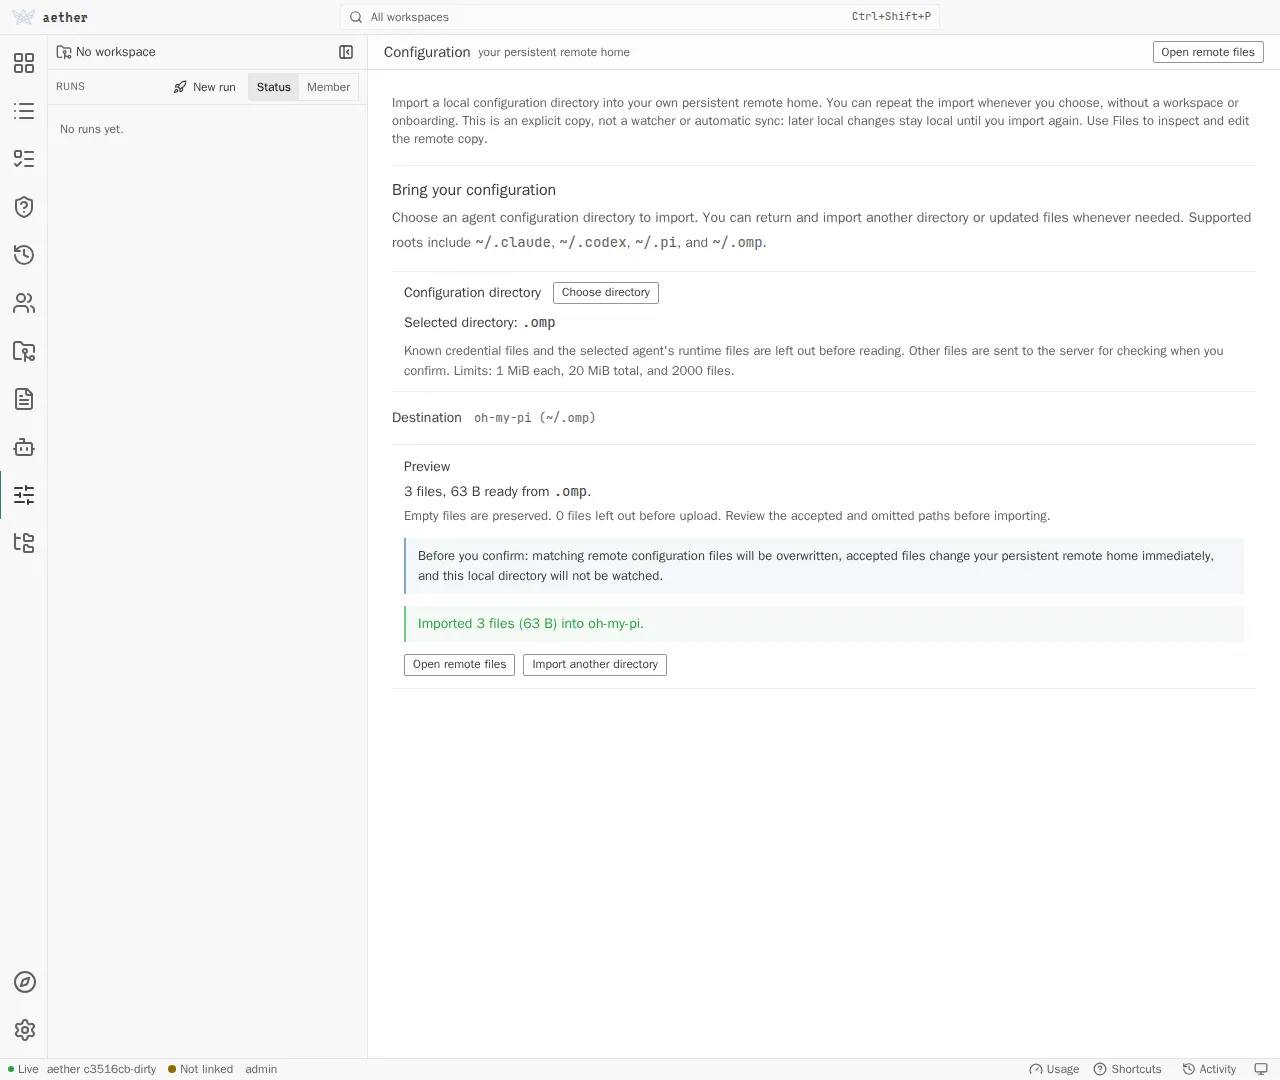
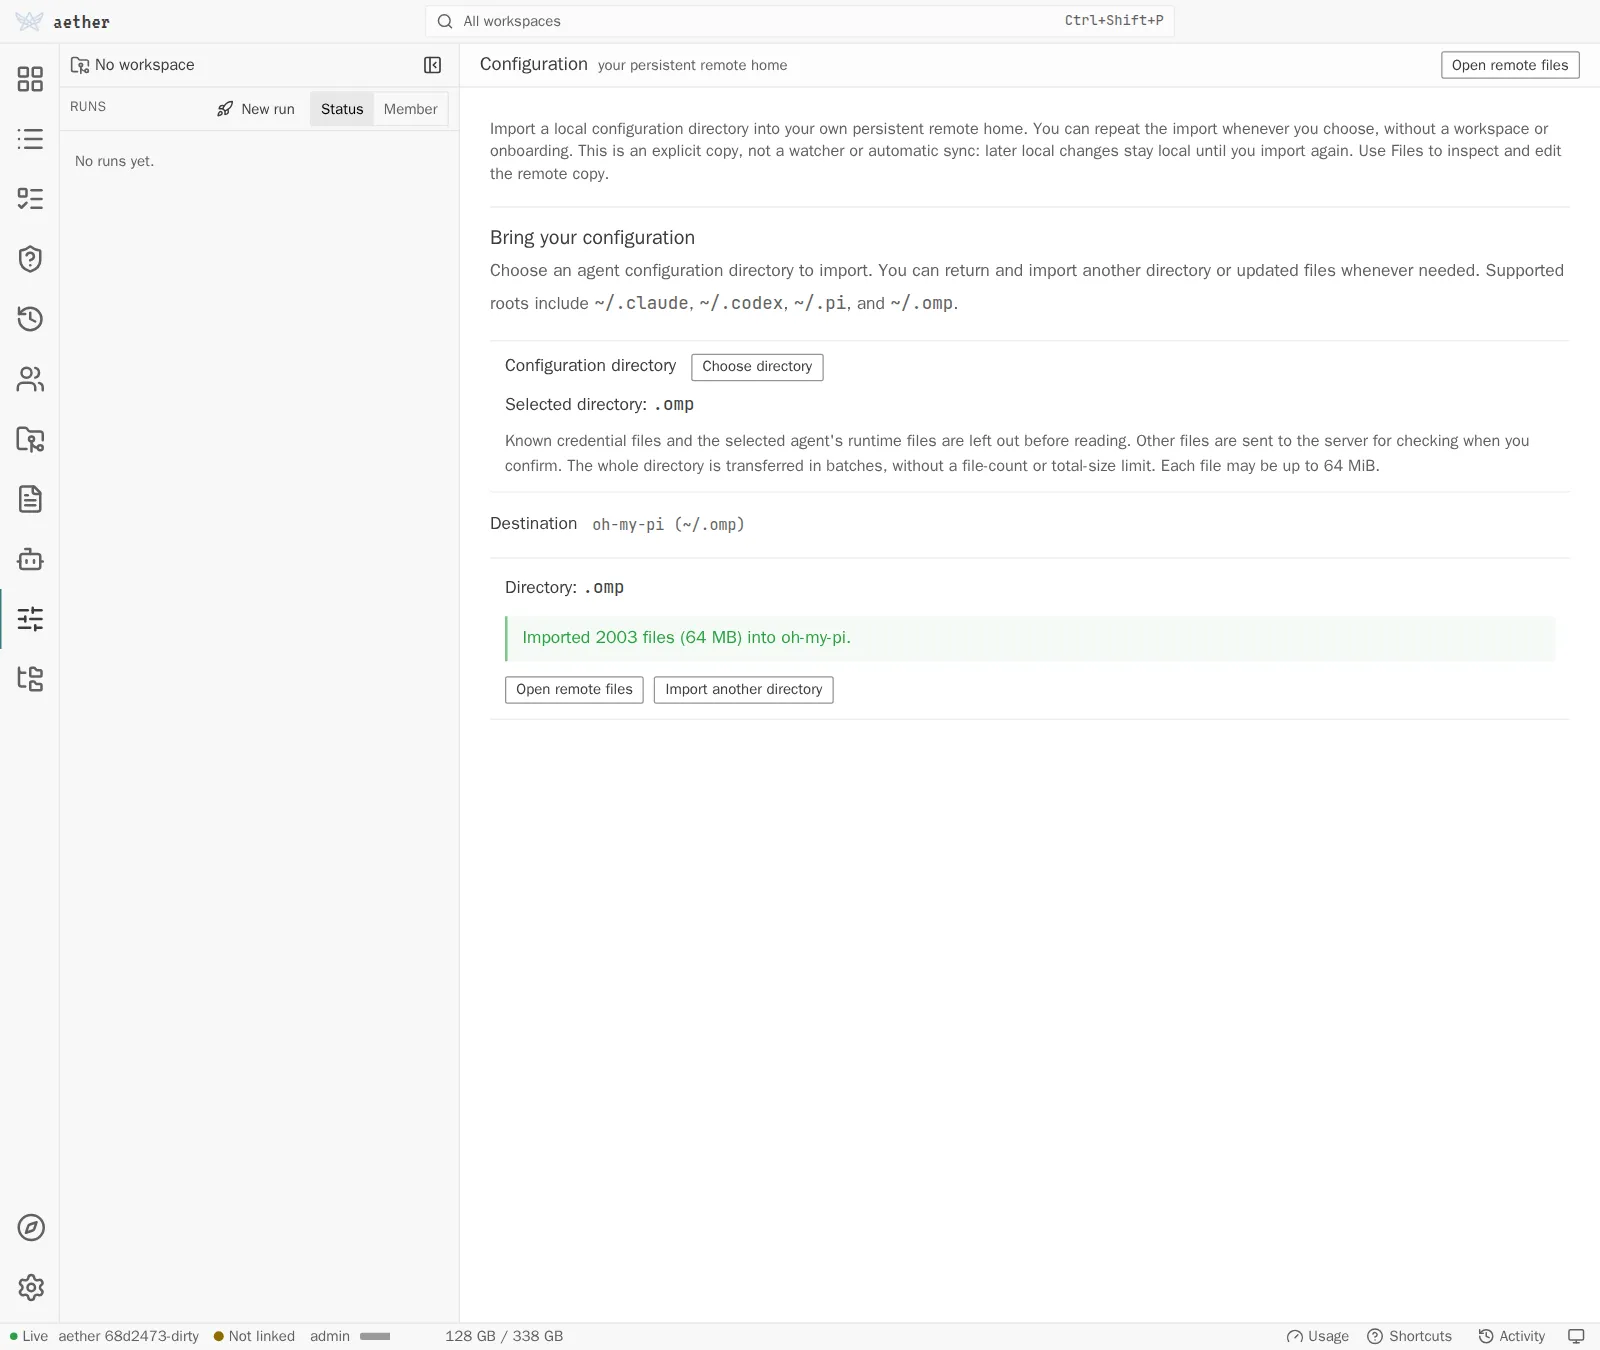
docs: explain complete configuration directory transfers
Replace directory-limit and partial-consent guidance with bounded full
transfers, progress, and truthful interruption reporting. Document the
per-file and per-request safety boundaries and identity behavior.

Capture real maximum-file success and lost-response recovery surfaces.

diff --git a/docs/local-gateway.md b/docs/local-gateway.md
@@ -135,8 +135,11 @@ the tailnet.
 
 For the local backend, when a call fails on transport (a server restart or a
 dropped network), it redials once and retries once before surfacing `-32004`
-(unavailable); a failure the server itself answered passes through untouched as
-that `protocol.Error`. Streams get the same treatment with a guard: a channel
+(unavailable). `config.import` is not replayed: a lost response may follow
+committed writes, so the failed attempt surfaces immediately. A subsequent
+request can reconnect without replaying the import. A failure the server itself
+answered passes through untouched as that `protocol.Error`. Streams get the
+same treatment with a guard: a channel
 that fails to open triggers a redial only when a keepalive shows the
 connection is actually gone, because tearing down a healthy connection would
 kill every live stream riding on it.
@@ -450,13 +453,16 @@ handles so it can recompute an import when the destination changes, and
 cannot change destinations during import. After a result, the user can start
 another directory selection or choose **Open remote files** to navigate to the
 existing **Files** editor.
-The preview lists accepted paths and makes all omitted paths available for
-review. Imports allow at most 2,000 files, 1 MiB per file, and 20 MiB decoded in
-aggregate. Omissions for count, aggregate size, or per-file size visibly mark
-the selection incomplete and disable upload until the user explicitly
-acknowledges importing the accepted subset, or chooses a smaller selection.
-The acknowledgement resets for a new directory, destination, or recomputed
-selection. Credential/runtime exclusions alone do not require it.
+The preview lists eligible paths and policy exclusions without reading file
+bytes. Directories have no file-count or decoded-total ceiling. The browser
+reads and encodes only the current batch: at most 2,000 files and a target of
+20 MiB decoded. A larger individual file is sent alone. Each `config.import`
+request permits at most 2,000 files and 64 MiB decoded, with a 64 MiB per-file
+ceiling matching configuration editing. These bounds limit a request, not the
+directory. Oversized files and invalid paths block preparation rather than
+offering to import a truncated subset.
+Preparation checks canonical destination keys across the whole selection, so
+root-prefixed aliases cannot overwrite each other in separate batches.
 Accepted bytes are uploaded and server-scanned, so a secret finding does not
 mean those bytes stayed local. Empty and binary regular files are preserved;
 new browser-imported files use `0644`, while overwrites preserve existing
@@ -491,11 +497,19 @@ dashboard says that some files may remain and directs the user to inspect
 **Files** before retrying. Cancellation can prevent the response from being
 delivered; the protocol does not claim a stronger delivery guarantee.
 
+Across batches the dashboard accumulates confirmed counts, paths, and server
+exclusions. A read failure or server-reported partial failure stops subsequent
+batches. A lost response leaves only that request's outcome unknown; earlier
+confirmed writes remain reported. Navigation retains owner-scoped progress and
+results. Before each request, including after file reads, the importer checks
+the authenticated identity and stops if it changed. An in-flight request may
+still complete for its original owner; the new identity cannot see its result.
+
 The generic HTTP proxy caps ordinary `/api/v1` JSON bodies at 1 MiB,
 `files.write` and `config.write` at 385 MiB to allow worst-case JSON escaping,
-and `config.import` at 30 MiB. The 64 MiB editor file limit remains
-authoritative after JSON decoding. The SSH control-channel line cap is 32 MiB;
-the decoded import limits above remain authoritative.
+and `config.import` at 96 MiB. The 64 MiB file and per-request import limits
+remain authoritative after JSON decoding. The SSH control-channel line cap is
+96 MiB, allowing base64 import requests without unbounded framing.
 
 ### `GET /api/v1/run/<run_id>/patch`
 

diff --git a/docs/dashboard-frontend.md b/docs/dashboard-frontend.md
@@ -350,19 +350,22 @@ The local onboarding Agents step is an optional consumer of the same component.
 
 The browser directory picker grants access to the directory the user selects
 even when the dashboard is server-hosted; it does not grant access to arbitrary
-local paths. The importer previews accepted paths and exposes all omitted
-paths. Exceeding the 1 MiB per-file, 20 MiB decoded aggregate, or 2,000-file
-limits produces an incomplete-selection warning and disables upload until the
-user acknowledges importing only the accepted subset. The user can instead
-choose a smaller selection. A new directory, destination, or recomputed
-selection resets consent; expected credential/runtime exclusions alone do not
-require it. Accepted bytes are uploaded and server-scanned.
+local paths. The importer previews metadata and policy exclusions without
+reading file bytes. It transfers the entire eligible directory through
+sequential bounded requests, not a truncated selection. It retains at most the
+current batch's encoded payload and shows cumulative progress. Files above the
+64 MiB configuration-file ceiling and read failures are explicit errors.
+Server exclusions and exact committed paths accumulate across batches; a
+failure stops subsequent requests, distinguishing known commits from a request
+whose response was lost.
 
 After a result the user can select another directory or use **Open remote
 files**, which navigates to the existing `files` route. There is no automatic
-configuration sync, watcher, or import retry. `configImportPending` is
-nonpersisted state shared by the importer and shell navigation guard, not an
-onboarding completion flag. New browser-imported files use `0644`; existing
+configuration sync, watcher, or import retry. Nonpersisted owner-scoped progress
+and results survive navigation; `configImportPending` serializes operations and
+protects against page unload. Each request rechecks identity after asynchronous
+reads, so a member/server switch prevents further writes and hides the old
+result. New browser-imported files use `0644`; existing
 remote modes are preserved on overwrite. The browser cannot preserve source
 executable bits or symlinks. See
 [Agent configuration](harnesses.md#agent-configuration-import-and-files) for
@@ -2136,14 +2139,13 @@ independently of onboarding or workspaces. `config.roots` supplies destinations
 such as `~/.claude` and their runtime exclusions. A unique basename selects
 the destination automatically; an unknown or ambiguous basename requires a
 choice before file bytes are read. Retained browser `File` handles allow the
-preview to be recomputed after a destination change, with generation guards
-discarding stale reads.
+metadata preview to be recomputed after a destination change.
 
 Credential names in any path component and `*.pem` files are excluded before
 read; destination-specific `runtime_ignores` match exact root-relative paths or
-component prefixes case-sensitively. The shared preview, limits,
-incomplete-selection acknowledgement, repeat-import controls, and server
-scanning rules are identical to the permanent route. A response with `error`
+component prefixes case-sensitively. Metadata previews, bounded complete
+transfers, progress, repeat-import controls, and server scanning are identical
+to the permanent route. A response with `error`
 shows committed counts, exact canonical `imported_paths`, and the real error,
 and warns that copied files remain. A lost RPC response leaves the outcome
 unknown; inspect **Files** before explicitly importing again. Auth/vendor login

diff --git a/docs/security.md b/docs/security.md
@@ -453,26 +453,30 @@ explicit choice. Credential names in any path component and `*.pem` files are
 always skipped before upload. Runtime/history paths come from the selected
 root's `runtime_ignores` metadata and match exact, root-relative paths or
 component prefixes case-sensitively after trailing slashes are trimmed.
-Changing the destination clears the old preview and re-reads retained browser
-`File` handles; generation guards discard stale reads. The preview lists the
-accepted paths and exposes every omitted path for review. Files omitted for
-the 1 MiB per-file, 20 MiB decoded aggregate, or 2,000-file limits mark the
-selection incomplete. Upload is disabled until the user acknowledges importing
-only the accepted subset; choosing a smaller selection is the alternative.
-A new directory, destination, or recomputed selection clears this
-acknowledgement. Expected credential/runtime exclusions alone do not require
-it. There is no watcher, automatic configuration synchronization, or automatic
-import retry.
+Changing the destination recomputes the preview from retained browser `File`
+handles without reading their bytes. The preview lists eligible paths and
+policy exclusions. No directory-wide count or byte ceiling discards files.
+The browser reads and encodes one bounded batch at a time, targeting 20 MiB
+decoded and at most 2,000 files; a larger individual file travels alone.
+Requests permit 64 MiB decoded and individual files have the existing 64 MiB
+configuration-file ceiling. Invalid or oversized files fail explicitly rather
+than enabling an incomplete-selection override.
+Owner-scoped progress and results survive dashboard navigation. Identity changes
+discard preparation and prevent subsequent batches, including after an awaited
+file read. An already submitted request may finish for its original owner;
+its result is never shown to the new identity. There is no watcher, automatic
+configuration synchronization, or automatic import retry.
 
 The browser reads accepted regular-file bytes and sends them to the server,
 where they are scanned before writing; a secret finding is therefore not proof
 that the content stayed local. Empty files and arbitrary binary regular bytes
-are preserved within those limits.
-The shared HTTP gateway permits a 30 MiB request for `config.import`,
-128 MiB for `config.write` and `files.write`, and 1 MiB for ordinary methods.
-The 64 MiB editor file limit remains authoritative after JSON decoding. These
-are framing limits, not larger decoded import allowances. The SSH control
-channel still caps one JSON line at 32 MiB.
+are preserved. A failed or interrupted batch stops the import and reports
+earlier confirmed writes; a lost response leaves that request's outcome unknown.
+The shared HTTP gateway permits a 96 MiB request for `config.import`,
+385 MiB for `config.write` and `files.write`, and 1 MiB for ordinary methods.
+Decoded file and import-request limits remain authoritative. The authenticated
+SSH control channel caps a JSON line at 96 MiB; the larger framing budget does
+not remove decoded import bounds or filesystem validation.
 
 Browser metadata is intentionally limited. New imported files are `0644`;
 existing modes are preserved even when the server uses a restrictive umask.

diff --git a/docs/harnesses.md b/docs/harnesses.md
@@ -564,9 +564,8 @@ before upload. Runtime/history exclusions come from the selected root's
 `runtime_ignores` metadata, which matches exact root-relative paths or
 component prefixes case-sensitively after trailing slashes are trimmed. This
 policy applies to renamed directories too. Changing an ambiguous destination
-clears the prior preview and re-reads the local file handles with the newly
-selected policy; a stale read cannot replace the current preview. These local
-exclusions are not overridden by `.aether-profile-ignore` in browser import.
+recomputes the preview from retained file handles without reading file bytes.
+These local exclusions are not overridden by `.aether-profile-ignore` in browser import.
 `agent/skills/`, `agent/extensions/`, and `agent/npm/` remain configuration and
 are imported.
 The accepted bytes are uploaded and scanned by the server; do not assume all
@@ -577,21 +576,20 @@ and the real error, and warns that copied files remain. If the RPC response is
 lost, the outcome is unknown and some files may have been copied; inspect
 **Files** before retrying. There is no watcher or automatic retry: selecting
 the directory and importing again is explicit.
-An import can include empty files and arbitrary binary bytes. It is limited to
-**1 MiB per file**, **20 MiB decoded total**, and **2,000 files**. If any file
-is omitted because of these size or count limits, the preview explicitly warns
-that the selection is incomplete and disables upload until you acknowledge
-importing only the accepted files. Review every omitted path, or choose a
-smaller selection instead. Acknowledgement resets when you choose another
-directory, change the destination, or recompute the selection. Switching
-authenticated members or servers discards the prepared selection and its
-acknowledgement. Expected credential/runtime exclusions alone do not require
-this acknowledgement.
+The directory has no file-count or total-size ceiling. The browser reads and
+uploads bounded batches, showing progress until all eligible files have been
+processed. There is no option to approve a truncated selection. Individual
+files use the same **64 MiB** ceiling as configuration editing; an oversized or
+unreadable file is an error, not a silently omitted file.
+Navigation within the dashboard preserves the operation and its result.
+Changing authenticated members or servers discards the prepared selection and
+stops further batches; an already submitted request may still finish for its
+original owner. Its paths and result are not shown to the new identity.
 Browser imports create new files with mode `0644` and preserve existing remote
 file modes when overwriting. The browser cannot preserve local executable bits
 or symlinks, so a newly imported script may need `chmod` in the remote terminal.
 
-![An incomplete selection requires acknowledgement before upload](media/configuration-incomplete.webp)
+![An interrupted import reports confirmed writes and the failure](media/configuration-incomplete.webp)
 
 The imported files are written into your authenticated member's persistent
 configuration home. That home is mounted read-write in your environment

diff --git a/docs/environment-home.md b/docs/environment-home.md
@@ -13,7 +13,7 @@ The home is the member's durable environment:
 
 - Executables installed in `~/.local/bin`
 - Vendor login state and other files written by the agent
-- Configuration imported once from the browser or edited in **Files**
+- Configuration imported explicitly from the browser or edited in **Files**
 - The GitHub login written by `gh auth login`, in `~/.config/gh/hosts.yml`
 - The commit signing key, `~/.ssh/aether_signing` and `~/.ssh/aether_signing.pub`
 - `~/.gitconfig`, which carries the git identity, gh's credential helper, and
@@ -240,24 +240,24 @@ rm ~/.local/bin/gh
 
 ## Importing and editing configuration
 
-In the local dashboard (`aether gui`), choose one local directory with the
-browser's directory picker and explicitly import it once. The server-hosted
-dashboard cannot read a directory on your laptop; use `aether gui` for this
-step. The picker compares the selected directory basename with the roots in
-`config.roots`: a known unique basename is selected automatically, while an
-unknown or ambiguous basename requires an explicit destination. The browser
-waits for that metadata and destination before previewing or reading bytes.
-Changing the destination clears the old preview and re-reads the retained
-local file handles with that destination's policy; stale reads are discarded.
-There is no directory watcher and no AI-generated inventory.
+Open **Agents → Configuration** in either dashboard and choose a local directory
+with the browser picker. Import is explicit and repeatable. The picker compares
+the selected basename with `config.roots`: a known unique basename is selected
+automatically; an unknown or ambiguous basename requires an explicit destination.
+The browser waits for that metadata before previewing paths, and reads file
+bytes only when importing. Changing the destination recomputes the preview
+from retained handles. There is no directory watcher or AI-generated inventory.
 
 Known credential names in any path component and `*.pem` files are always
 skipped locally. Runtime/history paths come from the selected root's
 `runtime_ignores` metadata and are skipped with exact, case-sensitive
 root-relative component-prefix matching. Remaining bytes are uploaded and
 scanned by the server, so secret content is not guaranteed to stay on the
-browser machine. Empty files and arbitrary binary assets are preserved. The
-limits are **1 MiB per file**, **20 MiB decoded total**, and **2,000 files**.
+browser machine. Empty files and arbitrary binary assets are preserved.
+Directories have no file-count or aggregate-size ceiling; the browser transfers
+bounded batches and reports cumulative progress. Individual files support up to
+64 MiB. Failures stop further requests and report already committed work; a
+lost response leaves that request's outcome unknown rather than claiming success.
 New browser-imported files use mode `0644`; existing files retain their current
 modes, including restrictive server-side umask modes. Executable mode and
 symlinks cannot be represented by the browser. Server-side validation rejects

diff --git a/docs/quickstart.md b/docs/quickstart.md
@@ -304,25 +304,25 @@ the vendor's instructions, then complete its login in the environment terminal.
 Return to the dashboard when finished.
 
 The member home persists the executable and vendor login state across
-containers. Configuration can be imported once from the browser and then
-edited in **Files**. See [the environment terminal guide](terminal.md) for tab
-and stop behavior.
+containers. Import configuration from the browser and edit it in **Files**.
+See [the environment terminal guide](terminal.md) for tab and stop behavior.
 
-Your own configuration is separate from vendor login and image setup. In the
-local dashboard's Agents step, choose one directory such as `~/.claude`,
-`~/.codex`, or `~/.pi` with **Choose directory**. Review the preview, select a
+Your own configuration is separate from vendor login and image setup. Open
+**Agents → Configuration** in either dashboard and choose one directory such
+as `~/.claude`, `~/.codex`, `~/.pi`, or `~/.omp`. Review the preview, select a
 destination when the basename is unknown or ambiguous, and click **Import
-configuration**. This is explicit and one-time; there is no local directory
-watcher or AI inventory. The server-hosted dashboard has no local directory
-picker; use `aether gui` for this step.
+configuration**. You can return to import updated files. There is no local
+directory watcher or automatic configuration synchronization.
 
 Known credential names in any path component and runtime/history defaults are
 skipped in the browser before upload. Remaining bytes are uploaded and
 server-scanned, so never assume all secret content stays on your machine.
-Empty files and arbitrary binary regular files are preserved. Imports are
-limited to 1 MiB per file, 20 MiB decoded total, and 2,000 files. Browser
-imports create files with mode `0644`; executable mode and symlinks cannot be
-preserved, so a script may need `chmod` in the remote terminal.
+Empty files and arbitrary binary regular files are preserved. The directory
+has no file-count or total-size ceiling: Aether transfers it in bounded batches
+and reports progress or the real failure. Individual files support up to
+64 MiB. New files use mode `0644`; overwrites retain remote permissions.
+The browser cannot preserve local executable mode or symlinks, so a new script
+may need `chmod` in the remote terminal.
 
 The imported files go into your authenticated member's persistent home, which
 is mounted read-write in the environment terminal and in runs using that

diff --git a/docs/teams.md b/docs/teams.md
@@ -710,7 +710,8 @@ review its files, and explicitly import or update the remote configuration.
 The local onboarding Agents step uses the same importer. Known credential
 names and runtime/history defaults are skipped locally; remaining bytes are
 uploaded and server-scanned, so do not assume all secret content stays local.
-Files omitted by import limits require explicit acknowledgement before upload.
+Directory-wide count and byte budgets do not truncate imports; bounded batches
+carry the full eligible selection and report progress or an explicit failure.
 The import writes the authenticated member's persistent home immediately,
 including for active runs using that account. An agent may need to reload its
 configuration.
@@ -728,10 +729,10 @@ admin cannot select another member.
 
 New browser-import files are mode `0644`; existing remote permission bits are
 preserved. Local executable mode and symlinks cannot be represented by the
-browser. Imports preserve empty and arbitrary binary
-regular files under the 1 MiB/file, 20 MiB decoded aggregate, and 2,000-file
-limits. The server rejects unsafe paths, symlink components, hardlinks, and
-nonregular files. A shared account uses the same read-write home rather than
+browser. Imports preserve empty and arbitrary binary regular files up to
+64 MiB each, without a directory-wide file-count or aggregate-size ceiling.
+The server rejects unsafe paths, symlink components, hardlinks, and nonregular
+files. A shared account uses the same read-write home rather than
 an isolated per-run copy. A snapshot pin records launch provenance, not an
 isolated writable home or a promise that home edits wait for later runs.
 Editing does not rebuild the installed-agent image.

diff --git a/docs/adapters.md b/docs/adapters.md
@@ -49,13 +49,12 @@ Rules that are easy to get wrong:
   are advertised, without a workspace or onboarding prerequisite. Onboarding
   optionally uses the same importer. No daemon watches `LocalRoot` or
   automatically synchronizes configuration.
-- **Import limits require an informed choice.** The browser previews accepted
-  paths and exposes all omitted paths. Files omitted for the 1 MiB per-file,
-  20 MiB aggregate, or 2,000-file limits require acknowledgement of an
-  incomplete selection before upload; choosing a smaller selection is the
-  alternative. A new directory, destination, or recomputed selection clears
-  that acknowledgement. Credential/runtime exclusions alone do not require
-  it. Imports are not automatically retried.
+- **Directory size does not truncate imports.** The browser previews file
+  metadata and transfers the full eligible selection in bounded requests.
+  Request budgets do not exclude settings or dependencies. Individual files
+  share configuration editing's 64 MiB ceiling; an oversized or unreadable
+  file fails explicitly. Interrupted imports report confirmed work and stop,
+  without automatic retries.
 - **Browser file metadata is limited.** New files use `0644`; overwrites retain
   existing remote modes. The browser cannot preserve source executable bits
   or symlinks.
